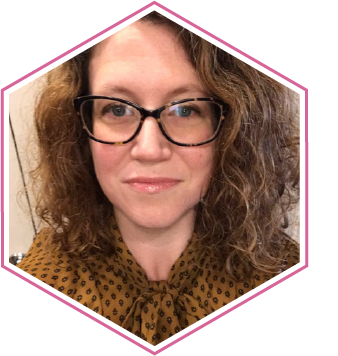
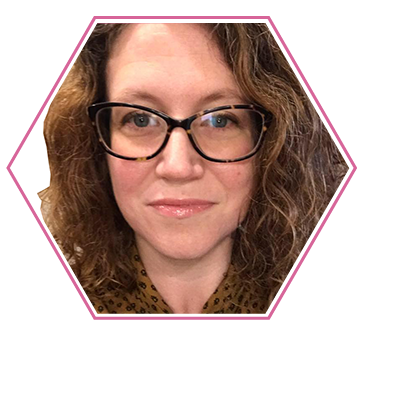
add about me and flex

diff --git a/css/styles.css b/css/styles.css
@@ -155,7 +155,9 @@ h2:hover {
 .about-container {
   width: 100%;
   display: flex;
-  height: 400px;
+  flex-direction: row;
+  flex-wrap: wrap;
+  height: 100%;
   z-index: 1;
   background: white;
 }
@@ -163,14 +165,25 @@ h2:hover {
 .ab-img {
   width: 50%;
   margin-left: 150px;
-  margin-top: 20px;
+  padding-top: 30px;
+  padding-bottom: 0;
+  flex-direction: column;
+  flex-basis: 100%;
+  flex: 1;
 }
 
 .ab-content p {
-  padding-top: 35px;
   padding-right: 70px;
   font-size: 18px;
   margin-left: 38px;
+  padding-top: 70px;
+}
+
+.ab-content {
+  width: 50%;
+  flex-direction: column;
+  flex-basis: 100%;
+  flex: 2;
 }
 
 .social-footer {
@@ -594,6 +607,9 @@ h2:hover {
     padding-left: 250px;
     padding-top: 20px;
   }
+  .about-container {
+    flex-direction: column;
+  }
 }
 
 @media screen and (min-width: 851px) {
@@ -603,5 +619,15 @@ h2:hover {
   .main-nav-container {
     padding-left: 0;
     padding-right: 80px;
+  }
+}
+
+@media screen and (min-width: 800px) {
+  .ab-img {
+    flex: 1;
+  }
+
+  .ab-content {
+    flex: 2;
   }
 }
